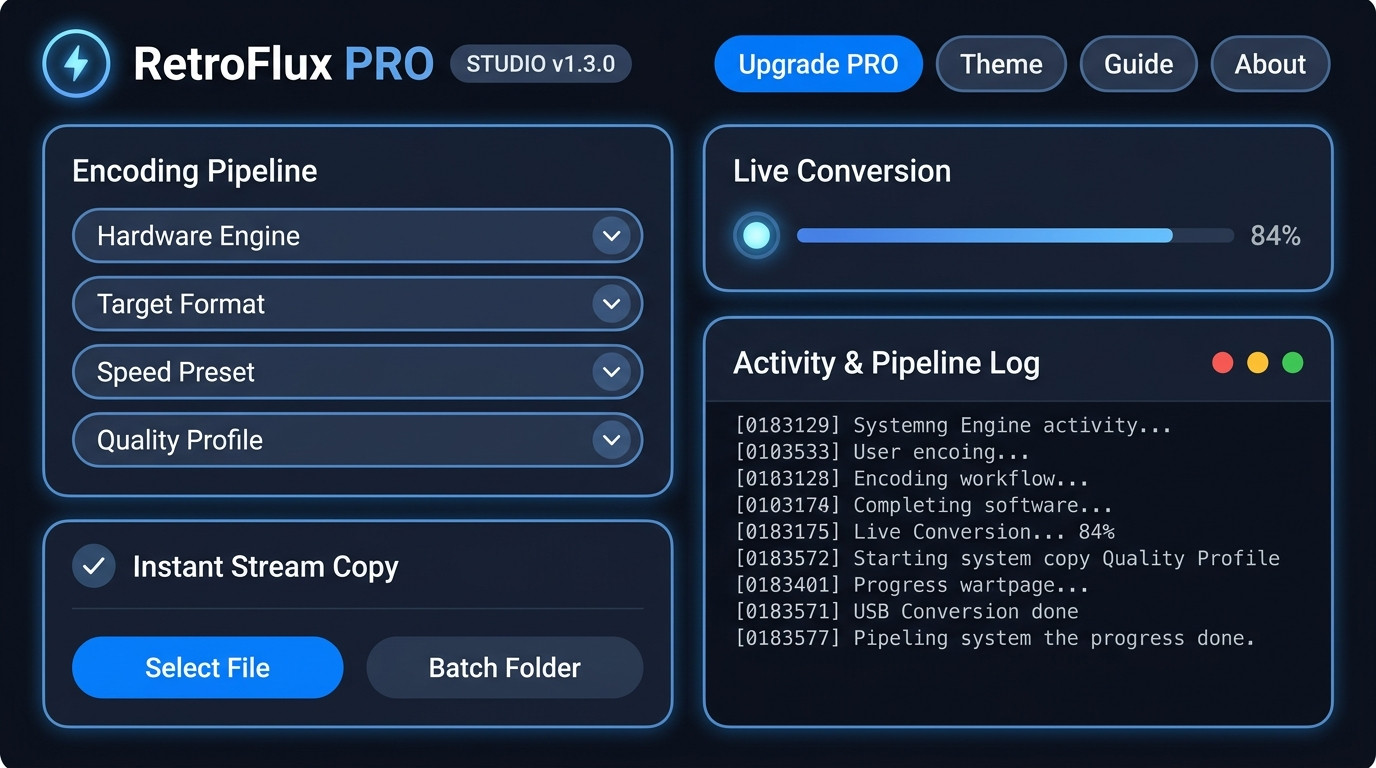
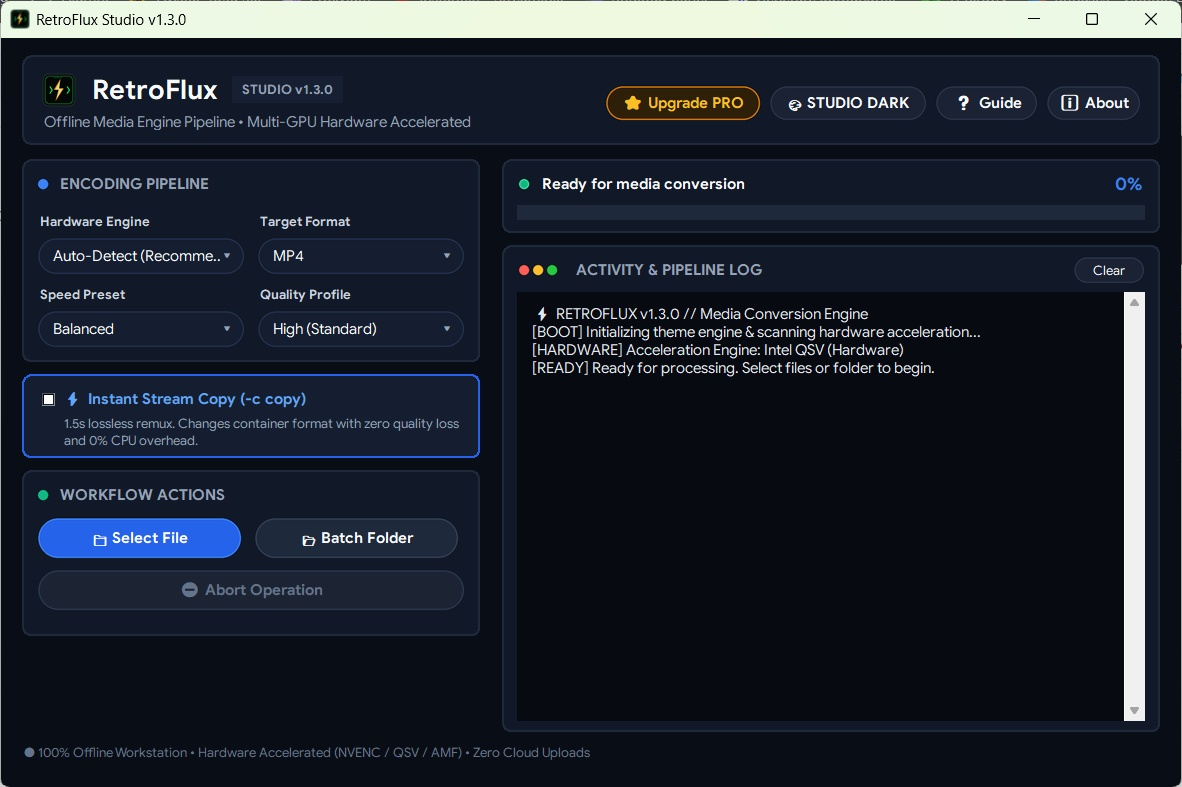
feat(website): update RetroFlux showcase with latest real Windows screenshots (Dark, Light, CRT)

diff --git a/retroflux/index.html b/retroflux/index.html
@@ -483,10 +483,13 @@
       <div class="flex items-center justify-center mb-10">
         <div class="inline-flex p-1.5 rounded-2xl bg-white/[0.04] border border-white/10 backdrop-blur-xl gap-1">
           <button id="tabDesktopBtn" onclick="switchGallery('desktop')" class="px-4 sm:px-6 py-2.5 rounded-xl text-xs sm:text-sm font-semibold transition-all bg-white text-black shadow-md">
-            🖥 Desktop Workstation
+            🖥 Modern Dark
           </button>
-          <button id="tabSettingsBtn" onclick="switchGallery('settings')" class="px-4 sm:px-6 py-2.5 rounded-xl text-xs sm:text-sm font-medium transition-all text-[#86868b] hover:text-white">
-            ⚙ Hardware & Codecs
+          <button id="tabLightBtn" onclick="switchGallery('light')" class="px-4 sm:px-6 py-2.5 rounded-xl text-xs sm:text-sm font-medium transition-all text-[#86868b] hover:text-white">
+            ☀ Modern Light
+          </button>
+          <button id="tabCrtBtn" onclick="switchGallery('crt')" class="px-4 sm:px-6 py-2.5 rounded-xl text-xs sm:text-sm font-medium transition-all text-[#86868b] hover:text-white">
+            📟 Retro CRT
           </button>
           <button id="tabMobileBtn" onclick="switchGallery('mobile')" class="px-4 sm:px-6 py-2.5 rounded-xl text-xs sm:text-sm font-medium transition-all text-[#86868b] hover:text-white">
             📱 Mobile Edition
@@ -497,10 +500,10 @@
       <!-- Screenshot Display Canvas -->
       <div class="max-w-5xl mx-auto">
         
-        <!-- View 1: Desktop Workstation Queue -->
+        <!-- View 1: Desktop Workstation Modern Dark -->
         <div id="galleryDesktop" class="space-y-6 transition-all duration-300">
           <div class="glass-panel rounded-3xl p-3 sm:p-4 border border-white/15 shadow-[0_30px_90px_rgba(0,0,0,0.8)] overflow-hidden">
-            <img src="assets/screenshot-desktop-queue.jpg" alt="RetroFlux PRO Desktop Workstation Batch Queue" class="w-full h-auto rounded-2xl object-cover shadow-2xl" />
+            <img src="assets/screenshot-desktop-dark.png" alt="RetroFlux PRO Desktop Workstation Dark Theme" class="w-full h-auto rounded-2xl object-cover shadow-2xl" />
           </div>
           <div class="grid grid-cols-1 md:grid-cols-3 gap-4 pt-2">
             <div class="glass-panel rounded-2xl p-5">
@@ -518,19 +521,40 @@
           </div>
         </div>
 
-        <!-- View 2: Hardware & Codec Settings -->
-        <div id="gallerySettings" class="space-y-6 transition-all duration-300 hidden">
-          <div class="glass-panel rounded-3xl p-3 sm:p-4 border border-white/15 shadow-[0_30px_90px_rgba(0,0,0,0.8)] overflow-hidden">
-            <img src="assets/screenshot-hardware-settings.jpg" alt="RetroFlux PRO Hardware Acceleration and Codec Settings" class="w-full h-auto rounded-2xl object-cover shadow-2xl" />
+        <!-- View 2: Modern Light Theme -->
+        <div id="galleryLight" class="space-y-6 transition-all duration-300 hidden">
+          <div class="glass-panel rounded-3xl p-3 sm:p-4 border border-white/15 shadow-[0_30px_90px_rgba(0,0,0,0.8)] overflow-hidden bg-white/5">
+            <img src="assets/screenshot-desktop-light.png" alt="RetroFlux PRO Modern Light Theme" class="w-full h-auto rounded-2xl object-cover shadow-2xl" />
           </div>
           <div class="grid grid-cols-1 md:grid-cols-3 gap-4 pt-2">
             <div class="glass-panel rounded-2xl p-5">
-              <div class="text-[#30d158] font-bold text-sm mb-1">🔍 Automatic Hardware Probing</div>
-              <p class="text-xs text-[#86868b] leading-relaxed">Instant detection of installed dedicated graphics cards and Intel integrated silicon.</p>
+              <div class="text-[#30d158] font-bold text-sm mb-1">☀ High-Contrast Daylight Mode</div>
+              <p class="text-xs text-[#86868b] leading-relaxed">Engineered for bright environments with sharp slate typography and fluid pill controls.</p>
             </div>
             <div class="glass-panel rounded-2xl p-5">
               <div class="text-[#ffd60a] font-bold text-sm mb-1">🎛 Universal Codec Presets</div>
-              <p class="text-xs text-[#86868b] leading-relaxed">One-click toggles for MP4 H.264, MKV HEVC H.265, ProRes 422, and WebM VP9.</p>
+              <p class="text-xs text-[#86868b] leading-relaxed">One-click toggles for MP4 H.264, MKV HEVC H.265, WebM VP9, and animated GIFs.</p>
+            </div>
+            <div class="glass-panel rounded-2xl p-5">
+              <div class="text-[#2997ff] font-bold text-sm mb-1">🔍 Automatic Hardware Probing</div>
+              <p class="text-xs text-[#86868b] leading-relaxed">Instant detection of installed dedicated graphics cards with seamless CPU fallback.</p>
+            </div>
+          </div>
+        </div>
+
+        <!-- View 3: Retro CRT Terminal Theme -->
+        <div id="galleryCrt" class="space-y-6 transition-all duration-300 hidden">
+          <div class="glass-panel rounded-3xl p-3 sm:p-4 border border-white/15 shadow-[0_30px_90px_rgba(0,0,0,0.8)] overflow-hidden">
+            <img src="assets/screenshot-desktop-crt.png" alt="RetroFlux PRO Cyberpunk Retro CRT Terminal" class="w-full h-auto rounded-2xl object-cover shadow-2xl" />
+          </div>
+          <div class="grid grid-cols-1 md:grid-cols-3 gap-4 pt-2">
+            <div class="glass-panel rounded-2xl p-5">
+              <div class="text-[#30d158] font-bold text-sm mb-1">📟 Cyberpunk CRT Terminal</div>
+              <p class="text-xs text-[#86868b] leading-relaxed">Vintage phosphor green terminal aesthetics with live stream diagnostics and telemetry.</p>
+            </div>
+            <div class="glass-panel rounded-2xl p-5">
+              <div class="text-[#ffd60a] font-bold text-sm mb-1">🛡 Standalone Embedded Engine</div>
+              <p class="text-xs text-[#86868b] leading-relaxed">Embedded static FFmpeg engine running 100% offline with zero cloud tracking.</p>
             </div>
             <div class="glass-panel rounded-2xl p-5">
               <div class="text-[#af52de] font-bold text-sm mb-1">🎵 Studio Audio Extraction</div>
@@ -539,7 +563,7 @@
           </div>
         </div>
 
-        <!-- View 3: Mobile Edition (Android) -->
+        <!-- View 4: Mobile Edition (Android) -->
         <div id="galleryMobile" class="space-y-6 transition-all duration-300 hidden">
           <div class="max-w-md mx-auto glass-panel rounded-3xl p-3 sm:p-4 border border-white/15 shadow-[0_30px_90px_rgba(0,0,0,0.8)] overflow-hidden">
             <img src="assets/screenshot-mobile-app.jpg" alt="RetroFlux Mobile Android Edition" class="w-full h-auto rounded-2xl object-cover shadow-2xl mx-auto" />
@@ -1206,28 +1230,35 @@
 
     function switchGallery(tab) {
       var d = document.getElementById('galleryDesktop');
-      var s = document.getElementById('gallerySettings');
+      var l = document.getElementById('galleryLight');
+      var c = document.getElementById('galleryCrt');
       var m = document.getElementById('galleryMobile');
       var btnD = document.getElementById('tabDesktopBtn');
-      var btnS = document.getElementById('tabSettingsBtn');
+      var btnL = document.getElementById('tabLightBtn');
+      var btnC = document.getElementById('tabCrtBtn');
       var btnM = document.getElementById('tabMobileBtn');
 
       var activeClass = 'px-4 sm:px-6 py-2.5 rounded-xl text-xs sm:text-sm font-semibold transition-all bg-white text-black shadow-md';
       var inactiveClass = 'px-4 sm:px-6 py-2.5 rounded-xl text-xs sm:text-sm font-medium transition-all text-[#86868b] hover:text-white';
 
       d.classList.add('hidden');
-      s.classList.add('hidden');
+      if (l) l.classList.add('hidden');
+      if (c) c.classList.add('hidden');
       m.classList.add('hidden');
       btnD.className = inactiveClass;
-      btnS.className = inactiveClass;
+      if (btnL) btnL.className = inactiveClass;
+      if (btnC) btnC.className = inactiveClass;
       btnM.className = inactiveClass;
 
       if (tab === 'desktop') {
         d.classList.remove('hidden');
         btnD.className = activeClass;
-      } else if (tab === 'settings') {
-        s.classList.remove('hidden');
-        btnS.className = activeClass;
+      } else if (tab === 'light') {
+        if (l) l.classList.remove('hidden');
+        if (btnL) btnL.className = activeClass;
+      } else if (tab === 'crt') {
+        if (c) c.classList.remove('hidden');
+        if (btnC) btnC.className = activeClass;
       } else if (tab === 'mobile') {
         m.classList.remove('hidden');
         btnM.className = activeClass;

diff --git a/index.html b/index.html
@@ -701,14 +701,14 @@
         </div>
 
         <p class="text-slate-300 text-xs leading-relaxed mb-4">
-          Developed as a lightweight, offline local utility featuring lossless stream copying (<code class="text-indigo-300 font-mono">-c copy</code> in ~1.2s), GPU acceleration support (NVIDIA NVENC, Intel QSV, AMD AMF), and Gumroad license API verification.
+          Developed as a lightweight, offline local utility featuring lossless stream copying (<code class="text-indigo-300 font-mono">-c copy</code> in ~1.2s), GPU acceleration support (NVIDIA NVENC, Intel QSV, AMD AMF), and single-device offline cryptographic licensing.
         </p>
 
         <div class="flex flex-wrap gap-1.5 text-xs text-slate-400 font-mono">
           <span class="px-2 py-0.5 rounded bg-white/[0.03]">Python</span>
           <span class="px-2 py-0.5 rounded bg-white/[0.03]">Flutter</span>
           <span class="px-2 py-0.5 rounded bg-white/[0.03]">Embedded FFmpeg</span>
-          <span class="px-2 py-0.5 rounded bg-white/[0.03]">Gumroad API</span>
+          <span class="px-2 py-0.5 rounded bg-white/[0.03]">Supabase Licensing</span>
         </div>
       </div>
 
